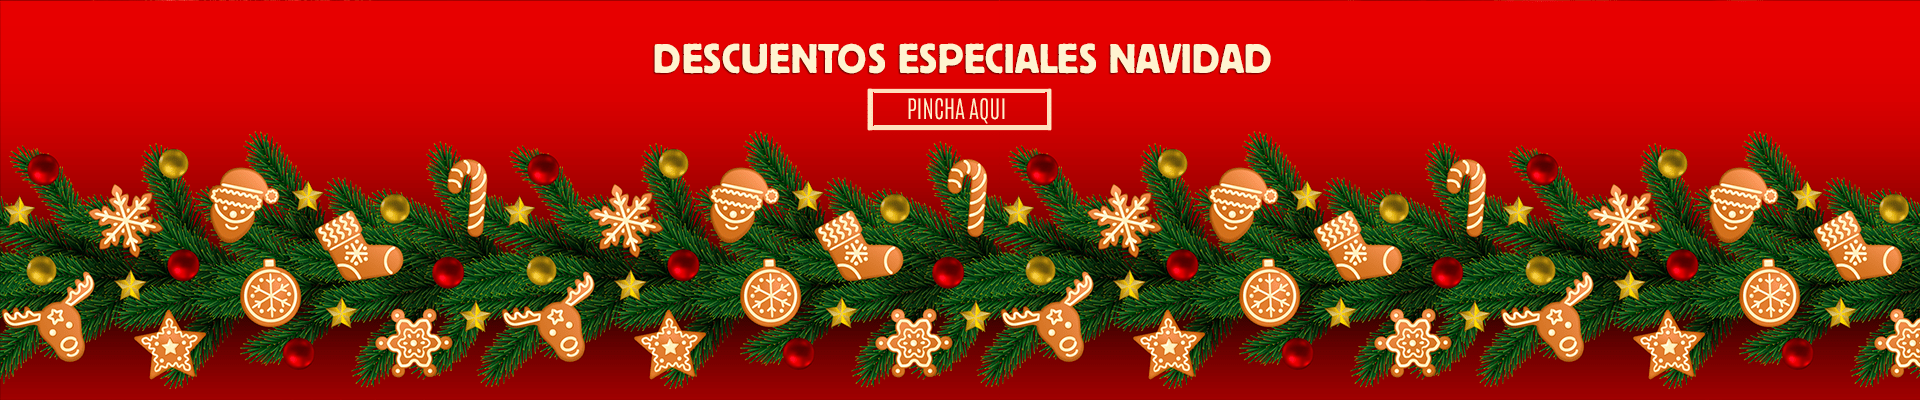
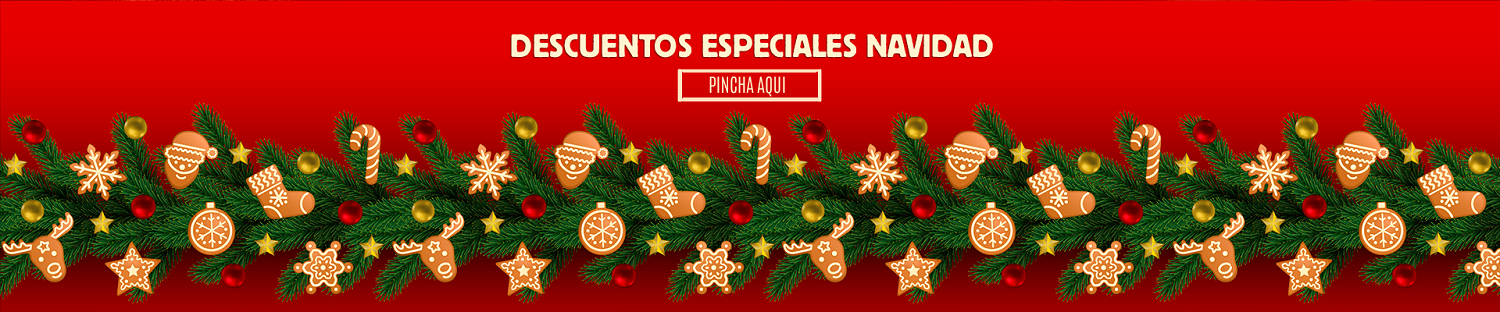
se termina de agregar los cards y se modifica font

diff --git a/index.html b/index.html
@@ -42,7 +42,7 @@
                     </li>
                 </ul>
                 <form class="form-inline my-2 my-lg-0">
-                    <div class="cart">
+                    <div class="ShoppingCart">
                         <a href="#"><span class="fas fa-shopping-cart"></span></a>
                     </div>
                     <input class="form-control mr-sm-2" type="search" placeholder="Buscar" aria-label="Search">
@@ -51,6 +51,7 @@
             </div>
         </nav>
     </header>
+    <!--fin del Navbar-->
     <div class="container carousel">
         <!--Carousel-->
         <div id="carouselExampleControls" class="carousel slide" data-ride="carousel">
@@ -74,8 +75,8 @@
                 </a>
             </div>
         </div>
-        <!--portafolio marcas-->
-        <!--texto presentación del portafolio-->
+        <!--Fin de Carousel-->
+        <!--texto portafolio marcas-->
         <section id="portafolio">
             <div class="container-fluid"> 
                 <div class="container-center">  
@@ -84,6 +85,7 @@
                 </div>
             </div>
         </section>
+        <!--Fin de texto portafolio marcas-->
         <!--portafolio-->
         <div class="row">   
             <div class="col-md-6">
@@ -107,10 +109,84 @@
                 </div>   
             </div>
         </div> 
-
-
-
-
+        <!--fin de portafolio-->
+        <!--cards informativos-->
+        <section class="infoCards"> 
+                <div class="container">
+                    <div class="row">   
+                        <div class="col-xs-12 col-sm-6 col-md-4">
+                            <div class="carta">    
+                                <div class="contentArea">  
+                                    <div class="side-one">
+                                        <div class="card">  
+                                            <div class="card-body text-center">
+                                                <div class="iconsInfo">
+                                                    <i class="fas fa-truck fa-4x"></i>
+                                                </div>   
+                                            </div>                   
+                                        </div>
+                                    </div>
+                                    <div class="side-two">
+                                        <div class="card">  
+                                            <div class="card-body text-center mt-4">
+                                                <h3>Despacho rápido</h3> 
+                                                <p>24/72h Santiago, por pagar regiones</p>
+                                            </div>                   
+                                        </div>
+                                    </div>        
+                                </div>
+                            </div>          
+                        </div>
+                        <div class="col-xs-12 col-sm-6 col-md-4">
+                            <div class="carta">    
+                                <div class="contentArea">  
+                                    <div class="side-one">
+                                        <div class="card">  
+                                            <div class="card-body text-center">
+                                                <div class="iconsInfo">
+                                                    <i class="fab fa-whatsapp fa-4x"></i>  
+                                                </div>  
+                                            </div>                   
+                                        </div>
+                                    </div>
+                                    <div class="side-two">
+                                        <div class="card">  
+                                            <div class="card-body text-center mt-4">
+                                                <h3>Whatsapeanos</h3> 
+                                                <p>Envianos un whatsapp al +56956722708</p>
+                                            </div>                   
+                                        </div>
+                                    </div>        
+                                </div>
+                            </div>          
+                        </div>
+                        <div class="col-xs-12 col-sm-6 col-md-4">
+                            <div class="carta">    
+                                <div class="contentArea">  
+                                    <div class="side-one">
+                                        <div class="card">  
+                                            <div class="card-body text-center">
+                                                <div class="iconsInfo">
+                                                    <i class="fas fa-calendar-check fa-4x"></i>
+                                                </div>  
+                                            </div>                   
+                                        </div>
+                                    </div>
+                                    <div class="side-two">
+                                        <div class="card">  
+                                            <div class="card-body text-center mt-4">
+                                                <h3>Pedido programado</h3> 
+                                                <p>Te recordamos de tu compra mensual.</p>
+                                            </div>                   
+                                        </div>
+                                    </div>        
+                                </div>
+                            </div>          
+                        </div>
+                    </div>  
+                </div> 
+        </section>  
+        <!--Fin de cards informativos-->
     </div>
     <!--Footer-->
     <footer class="footer mt-auto py-3">

diff --git a/css/micss.css b/css/micss.css
@@ -1,6 +1,6 @@
 body{
   	background: linear-gradient(to top, #fceabb, #F1D731);
-	font-family: dubai, courier prime, courier new;
+	font-family: dubai, corbel, gadugi;
 	margin: 0 !important;
 	padding: 0 !important;
 }
@@ -28,30 +28,31 @@ h2{
 	letter-spacing: 5px;
 	text-transform: uppercase;
 	font-family: titillium web, bahnschrift;
-
 }
 
 /*index*/
-
-.cart a{
+/*Shopping cart en navbar*/
+.ShoppingCart a{
 	margin-right: 15px;
 	color: #fff;
 }
 
-
+.ShoppingCart a:hover{
+	color: #F1D731;
 }
+/*Fin de hopping cart en navbar*/
+
 .carousel{ /*carousel*/
 	padding-top: 40px;
 	padding-bottom: 20px;
 } 
+/*Fin de carousel en index*/
 
-/*portafolio*/
-
+/*Portafolio*/
 .tituloPortafolio{
 	text-align: center;
 	font-size: 	40px;
 	color: #111;
-	margin-top: 50px;
 	font-family: titillium web, bahnschrift;
 }
 
@@ -60,7 +61,7 @@ h2{
 	font-size: 	20px;
 	color: #746B6B;
 	margin-top: 0;
-	font-family: dubai, courier prime, courier new;
+	font-family: dubai, corbel, gadugi;
 }
 
 .portafolio-container{ 
@@ -81,11 +82,90 @@ h2{
 	-webkit-transform: scale(1.2);
 	transform: scale(1.2);
 }
+/*Fin de portafolio en index*/
+
+/*infocards*/
+.InfoCards{
+	padding: 60px 0;
+}
+
+.carta .card{
+	border: none;
+	background: #1B2631;
+}
+
+.icon{
+	width: 	150px;
+	height: 150px;
+	display: inline-block;
+	overflow: hidden;	
+}
+
+.carta:hover .side-two{
+	transform: rotateY(0deg);
+	border-radius: 5px;
+}
+
+.carta:hover .side-one{
+	transform: rotateY(180deg);
+}
+
+.contentArea{
+	transform: 	perspective(1000px);
+	transition: 1s;
+	transform-style: preserve-3d;
+	position: relative;	
+}
+
+.contentArea h3{
+	color: #fff;
+	font-family: titillium web, bahnschrift;
+}
+
+.contentArea p{
+	color: grey;
+	font-family: dubai, corbel, gadugi;
+	text-align: center;	
+}
+
+.iconsInfo{
+	padding: 50px;
+	color: #fff;	
+}
+
+.side-one{
+	position: relative;	
+	transform: rotateY(0deg);
+	z-index: 2;
+	margin-bottom: 30px;
+}
+
+.side-two{
+	position: absolute;	
+	top: 	0;
+	left: 	0;
+	background: #fff;
+	transform: rotateY(-180deg);
+}
+
+.side-one,
+.side-two{
+	backface-visibility: hidden;	
+	transition: 1s;
+	transform-style: preserve-3d;
+}
+
+.side-one .card,
+.side-two .card{
+	min-height: 200px;
+}
+/*Fin de infocards en index*/
+/*Fin del index*/
 
 /*footer*/
 footer{
 	width: 100%;
-	font-family: dubai, courier prime, courier new;
+	font-family: dubai, corbel, gadugi;
 	background: #212121;
 	color: #d9d9d9;
 }
@@ -147,13 +227,9 @@ footer{
 	transition: background-color .3s ease-out;
 	outline: 0;
 }
+/*Fin del footer*/
 
-/*index*/
-
-
-
-/*productos*/
-
+/*Productos*/
 .productos .card{
 	border-radius: 5px;
 	padding: 20px;
@@ -161,9 +237,9 @@ footer{
 	overflow: hidden;
 	margin-bottom: 50px;
 }
+/*Fin de productos*/
 
 /* Blog */
-
 .blog .card{
 	border-radius: 5px;
 	padding: 20px;
@@ -171,9 +247,9 @@ footer{
 	overflow: hidden;
 	margin-bottom: 50px;
 }
+/*Fin de Blog*/
 
 /*Contacto*/
-
 /*Cuadro contacto*/
 .wrap{
 	max-width: 1170px;
@@ -181,9 +257,8 @@ footer{
 	margin-right: auto;	
 	padding: 1.5em;
 	color: 	white;
-	font-family: dubai, courier prime, courier new;
+	font-family: dubai, corbel, gadugi;
 }
-
 
 .cuadroContacto{
 	box-shadow: 0 0 20px 0 rgba(255, 255, 255, .3);
@@ -210,7 +285,6 @@ footer{
 	margin: 0;
 	padding: 1em;
 }
-
 
 .contactForm form button,
 .contactForm form input,
@@ -258,10 +332,9 @@ footer{
 .contactInfo ul li{
 	padding: .3em;
 }
-
+/*Fin de Cuadro contacto*/
 
 /*Large screen contactos*/
-
 @media (min-width: 600px){
 	body{
 		padding: 0 4rem;
@@ -283,15 +356,15 @@ footer{
 		text-align: left;
 	}
 }
+/*Fin de contacto*/
 
 /* Nosotros */
-
 .contentH{
 	max-width: 1170px;
 	margin-left: auto;	
 	margin-right: auto;	
 	padding: 1.5em;
-	font-family: dubai, courier prime, courier new;
+	font-family: dubai, corbel, gadugi;
 }
 
 .historyTitle{
@@ -306,11 +379,10 @@ footer{
 	font-size: 1em;
 	font-weight: normal;
 	text-align: center;
-	font-family: dubai, courier prime, courier new;
+	font-family: dubai, corbel, gadugi;
 }
 
-/*En nosotros imagen de dexter*/
-
+/*Profile dexter*/
 .profile{
 	padding: 20px;
 }
@@ -354,8 +426,10 @@ footer{
 
 .card-text{
 	font-size: 15px;
-	font-family: dubai, courier prime, courier new;
+	font-family: dubai, corbel, gadugi;
 }
+/*Fin de Profile dexter*/
+/*Fin de Nosotros*/
 
 
 
